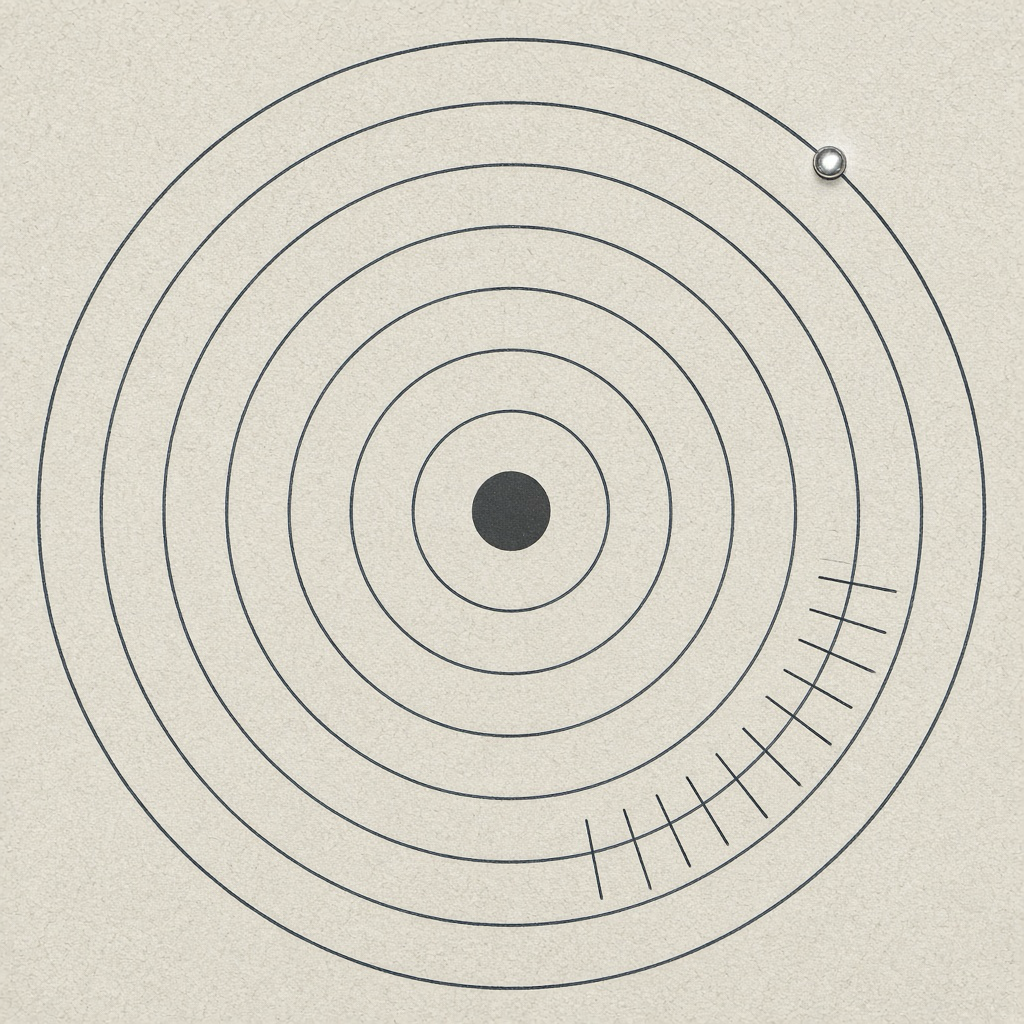
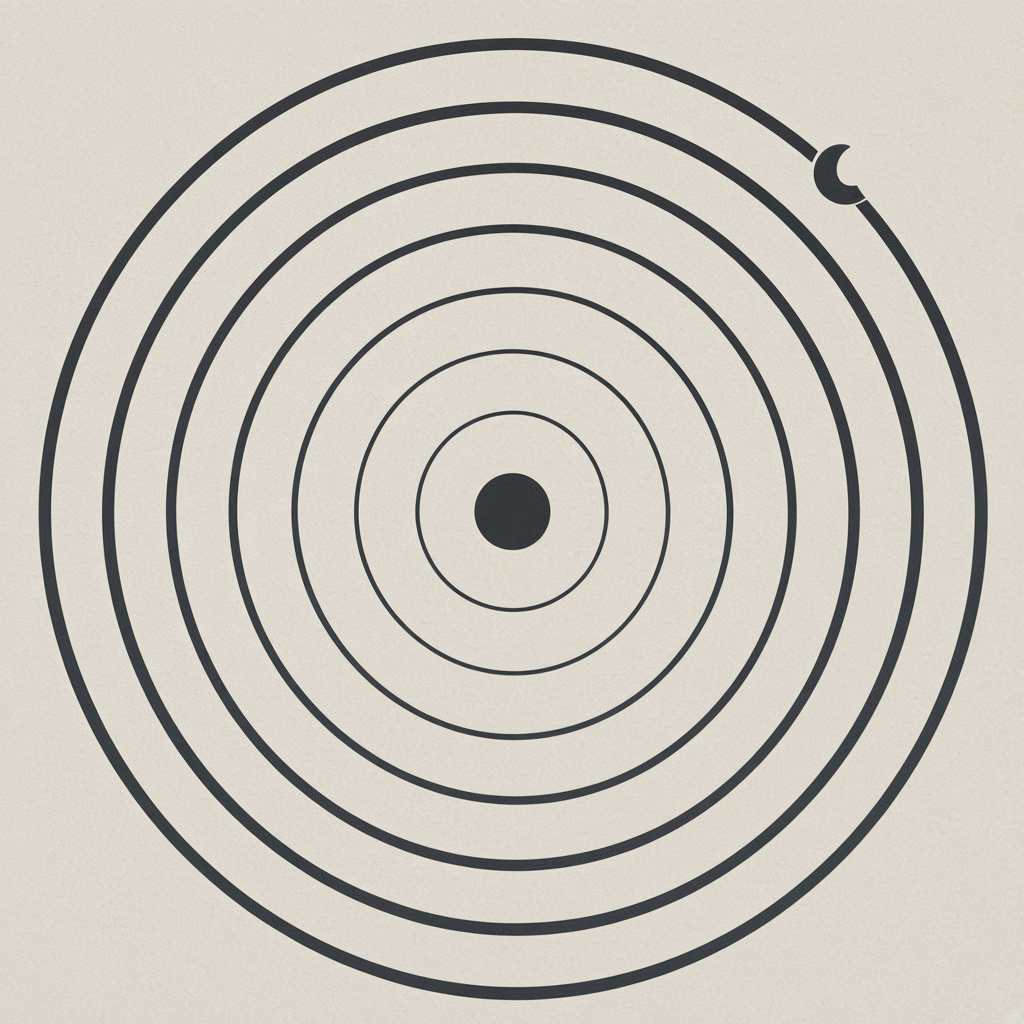
TestFlight update

diff --git a/Auxesis/AuxesisApp.swift b/Auxesis/AuxesisApp.swift
@@ -2,6 +2,11 @@ import SwiftUI
 import Alamofire
 import OneSignalFramework
 
+@MainActor
+private enum LaunchRegistration {
+    static var started = false
+}
+
 @main
 struct AuxesisApp: App {
     @UIApplicationDelegateAdaptor(AppDelegate.self) var appDelegate
@@ -35,14 +40,14 @@ struct AuxesisApp: App {
     }
 
     private func performRegistration() {
+        guard !LaunchRegistration.started else { return }
+        LaunchRegistration.started = true
+
         let pushToken = OneSignal.User.pushSubscription.token ?? ""
 
         if let saved = Alamofire.DataCache.shared.contentURL, !saved.isEmpty {
             finishLaunch(mode: .webContent, url: saved)
-        }
-
-        DispatchQueue.main.asyncAfter(deadline: .now() + 5) {
-            finishLaunch(mode: .nativeInterface, url: nil)
+            return
         }
 
         Alamofire.NetworkService.shared.performRegistration(pushToken: pushToken) { mode, url in

diff --git a/Auxesis/App/Canvas/CanvasViewController.swift b/Auxesis/App/Canvas/CanvasViewController.swift
@@ -587,6 +587,14 @@ final class CanvasViewController: UIViewController {
 
     private func render() {
         let count = canvas.ringCount
+        let left = max(0, FullMarkSeal.ringCapacity - count)
+        if canvas.isSealed {
+            job.text = "The day is sealed. Seven rings hold."
+        } else if left == 1 {
+            job.text = "\(AuxFormat.integer(left)) ring left before the day seals."
+        } else {
+            job.text = "\(AuxFormat.integer(left)) rings left before the day seals."
+        }
         countTile.apply(key: "Rings today", value: AuxFormat.ringsOutOfSeven(count))
         let floor = canvas.outermostDuration?.seconds ?? RoundDuration.minimumSeconds
         floorTile.apply(key: "Outer floor", value: AuxFormat.minutes(floor))
